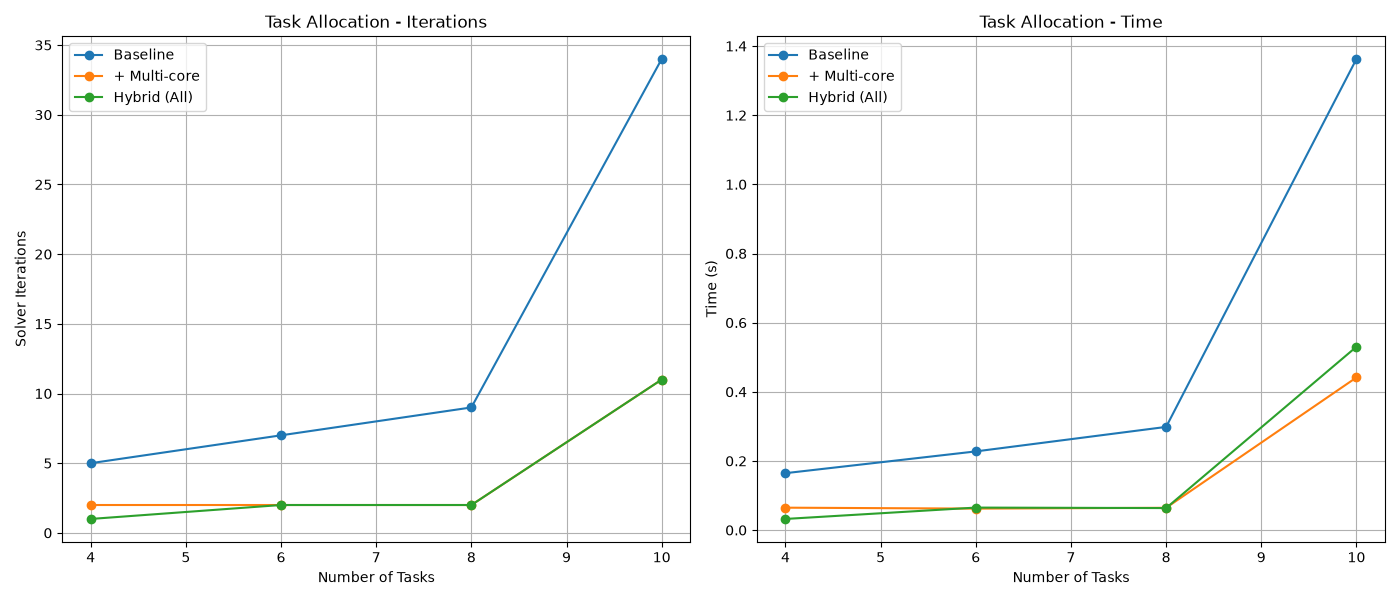
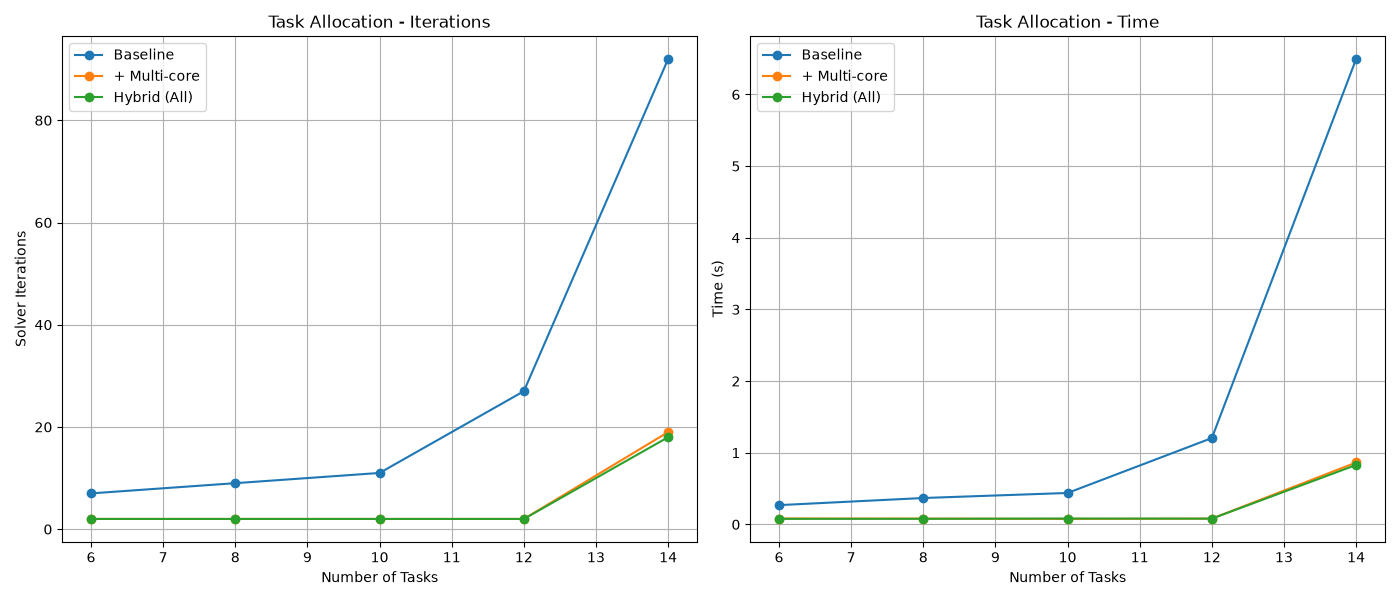
Adding more experiments

diff --git a/part_closing.tex b/part_closing.tex
@@ -48,7 +48,7 @@ techniques of \cref{sec:techniques} for the empirical setting of
 \cref{sec:part3}. (iii) Further hybrid refinements: while basic
 cross-family warm-starting behaves as predicted on the toy instances of
 \cref{tab:results}, more sophisticated interleaving---e.g., dynamic switching between core-guided
-and IHS phases based on progress metrics---remains unexplored.
+and IHS phases based on progress metrics, or leveraging initial disjoint cores to heavily prune incomplete solvers like linear search \citep{berg2020core}---remains underexplored.
 \end{description}
 
 \paragraph{Empirical illustration.} \Cref{tab:results} reports a small
@@ -151,7 +151,9 @@ an ablation study reveals surprising dynamics between the transferred techniques
 On the Vertex Cover and Weighted Set Cover instances, the \emph{Multi-core extraction} 
 feature emerges as the overwhelmingly dominant factor, independently reducing the number 
 of outer iterations and overall runtime by more than a factor of three compared to the 
-baseline IHS. Interestingly, the \textsc{Hybrid} configuration---which enables all stabilization, 
+baseline IHS. This completely aligns with the foundational Implicit Hitting Set literature 
+(\citealp{davies2011solving, davies2013exploiting}), which established that extracting multiple 
+disjoint cores per iteration is crucial for preventing the IP master from stalling. Interestingly, the \textsc{Hybrid} configuration---which enables all stabilization, 
 warm-starting, and pricing features simultaneously---actually performs \emph{worse} 
 than the bare Multi-core extension on these problems. This points to negative interference: the 
 aggressive dual-stabilization (Wentges) and modified core structures (Pareto selection) 

diff --git a/src/plot_scheduling.py b/src/plot_scheduling.py
@@ -77,18 +77,23 @@ def plot_experiment(title, sizes, xlabel, generator, *gen_args, filename="plot.p
     plt.close()
     print(f"Saved {filename}")
 
+def wrap_shift_scheduling(n_days, seed=42):
+    # Fix n_emps=4, req_per_day=2. Vary n_days.
+    return generate_shift_scheduling(4, n_days, 2, seed=seed)
+
 def main():
     # 1. Task Allocation
-    plot_experiment("Task Allocation", [4, 6, 8, 10], "Number of Tasks", 
-                    generate_task_allocation, 3, 4, seed=123, filename="scheduling_plot_1.png")
+    # Extended sizes to push beyond 10s execution
+    plot_experiment("Task Allocation", [6, 8, 10, 12, 14], "Number of Tasks", 
+                    generate_task_allocation, 3, 5, seed=123, filename="scheduling_plot_1.png")
     
     # 2. Gate Allocation
-    plot_experiment("Gate Allocation", [4, 5, 6, 7], "Number of Flights", 
+    plot_experiment("Gate Allocation", [5, 6, 7, 8], "Number of Flights", 
                     generate_gate_allocation, 3, 0.3, seed=123, filename="scheduling_plot_2.png")
     
     # 3. Shift Scheduling
-    plot_experiment("Shift Scheduling", [4, 5, 6], "Number of Employees", 
-                    generate_shift_scheduling, 4, 2, seed=123, filename="scheduling_plot_3.png")
+    plot_experiment("Shift Scheduling", [4, 5, 6, 7], "Number of Days", 
+                    wrap_shift_scheduling, seed=123, filename="scheduling_plot_3.png")
 
 if __name__ == "__main__":
     main()
